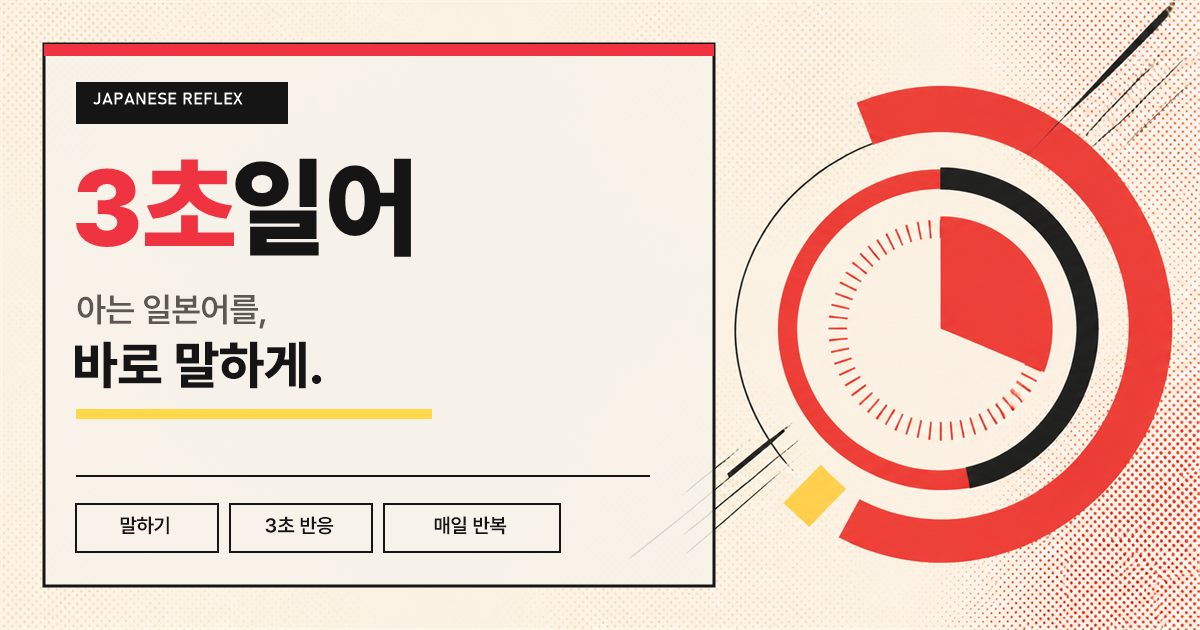
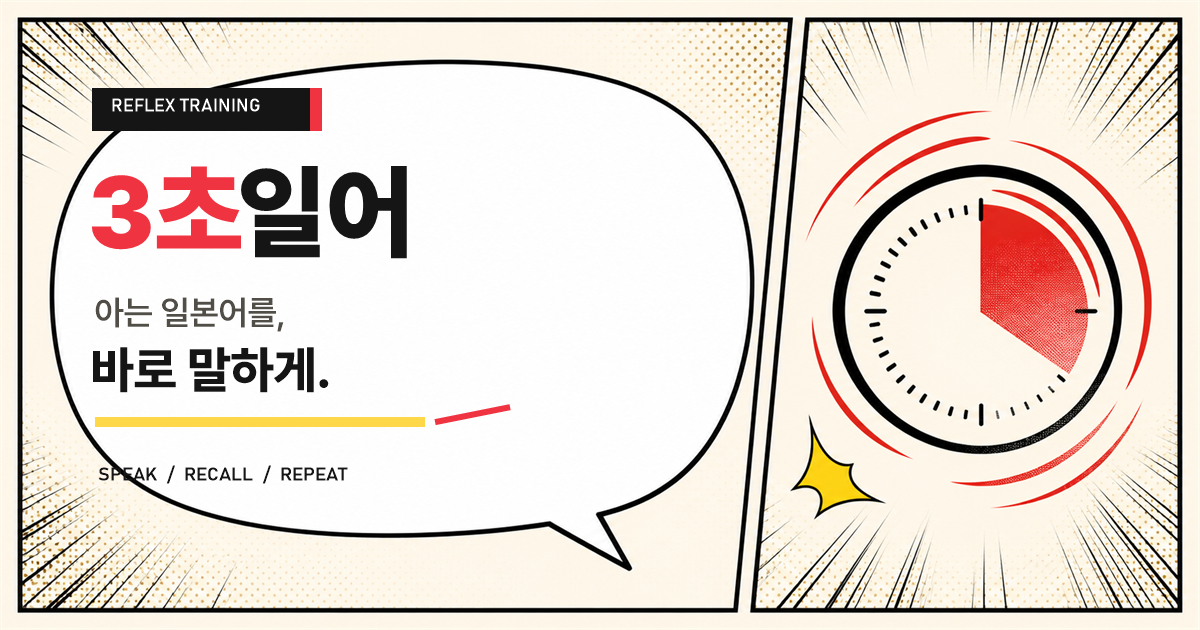
Deploy webtoon-style social preview

diff --git a/404.html b/404.html
@@ -15,7 +15,7 @@
     />
     <meta
       property="og:image"
-      content="https://zumurf-ux.github.io/three-second-japanese-app/og.png?v=redesign-20260824-v2"
+      content="https://zumurf-ux.github.io/three-second-japanese-app/og.png?v=webtoon-redesign-20260824-v3"
     />
     <link rel="icon" href="/three-second-japanese-app/favicon.svg" />
     <title>3초일어 | 일본어 반사 학습</title>

diff --git a/index.html b/index.html
@@ -15,7 +15,7 @@
     />
     <meta
       property="og:image"
-      content="https://zumurf-ux.github.io/three-second-japanese-app/og.png?v=redesign-20260824-v2"
+      content="https://zumurf-ux.github.io/three-second-japanese-app/og.png?v=webtoon-redesign-20260824-v3"
     />
     <link rel="icon" href="/three-second-japanese-app/favicon.svg" />
     <title>3초일어 | 일본어 반사 학습</title>
